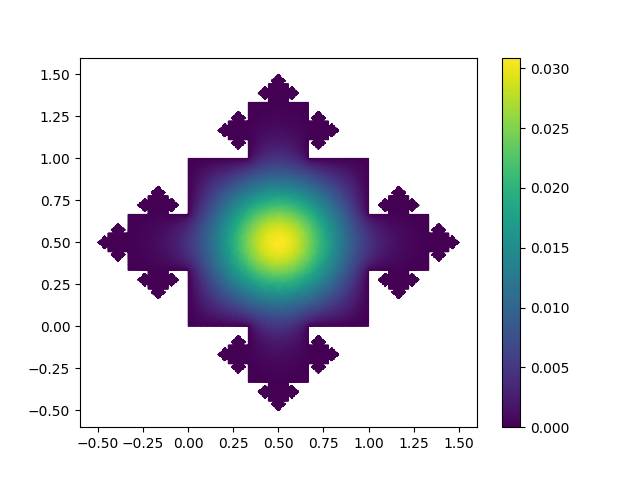
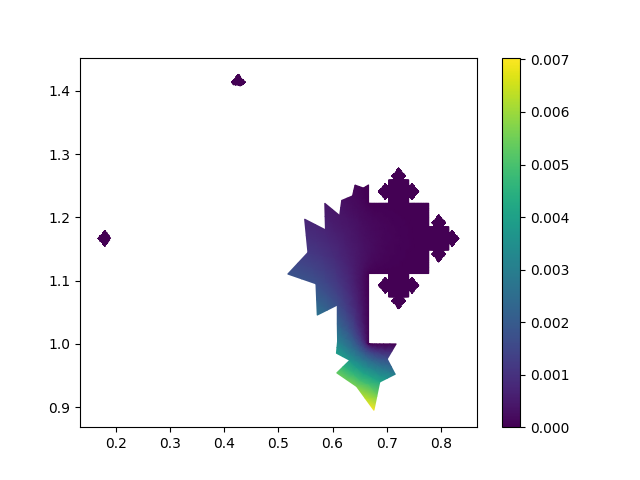
update

diff --git a/Ex3_square_harmonic_adaptive/geogen.py b/Ex3_square_harmonic_adaptive/geogen.py
@@ -9,12 +9,13 @@ import numpy as np
 import matplotlib.cm as cm
 import matplotlib.pyplot as plt
 def plot_colourline(x,y,c,indx_list):
-    col = cm.jet((c-np.min(c))/(np.max(c)-np.min(c)))
+    #col = cm.jet((c-np.min(c))/(np.max(c)-np.min(c)))
+    col = c
     ax = plt.gca()
     for idx in indx_list:
         for i in np.arange(len(idx)-1):
-           ax.plot([x[idx[i]],x[idx[i+1]]], [y[idx[i]],y[idx[i+1]]], c=col[idx[i]],linewidth=0.01)
-    im = ax.scatter(x, y, c=c, s=0, cmap=cm.jet)
+           ax.plot([x[idx[i]],x[idx[i+1]]], [y[idx[i]],y[idx[i+1]]], c=col[idx[i]],linewidth=0.2)
+    im = ax.scatter(x, y, c=c, s=0, cmap=cm.jet,vmin=0.6, vmax=1.25)
     return im
 
 def sort_index(line_list,x_list,y_list):
